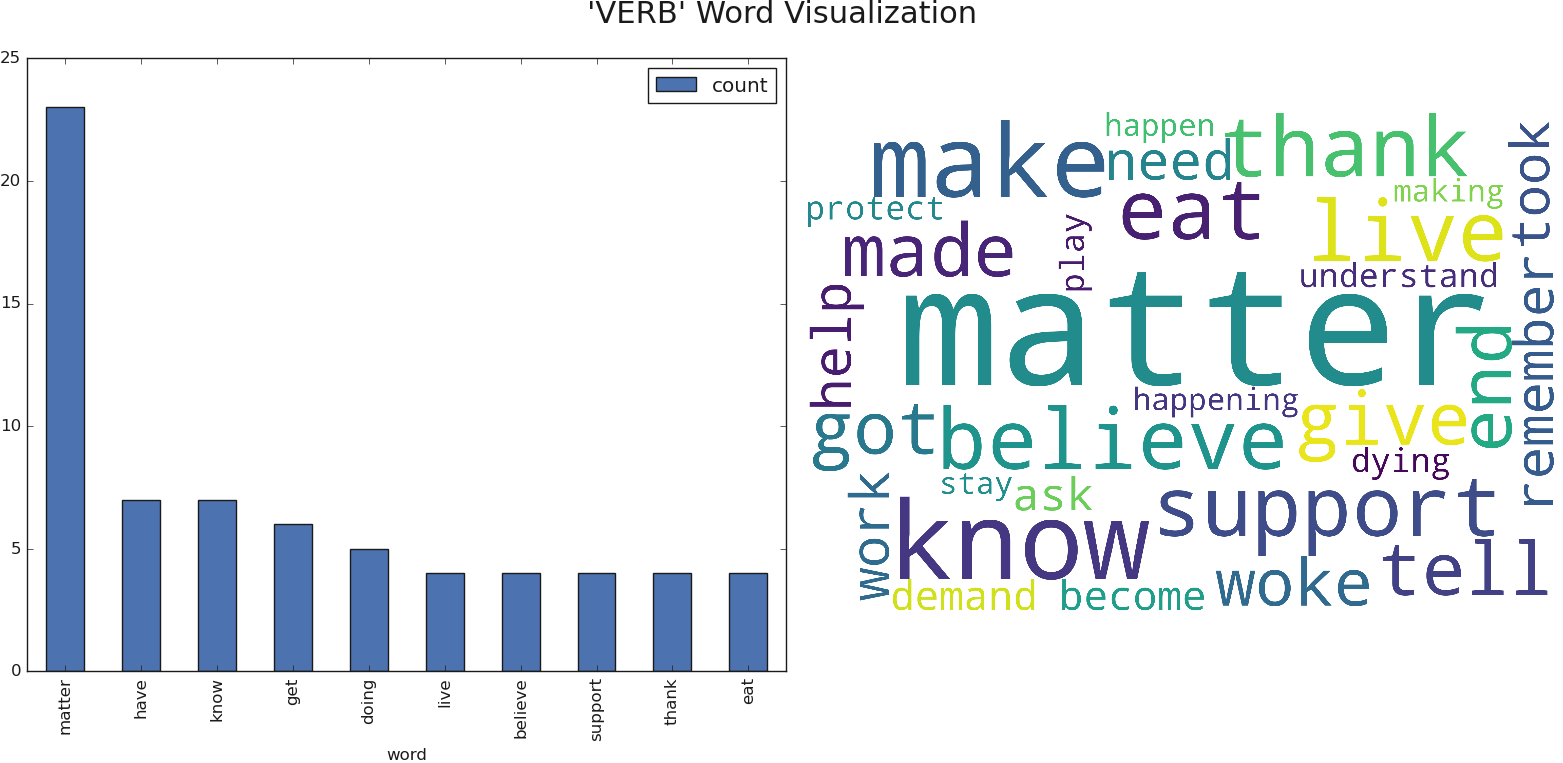
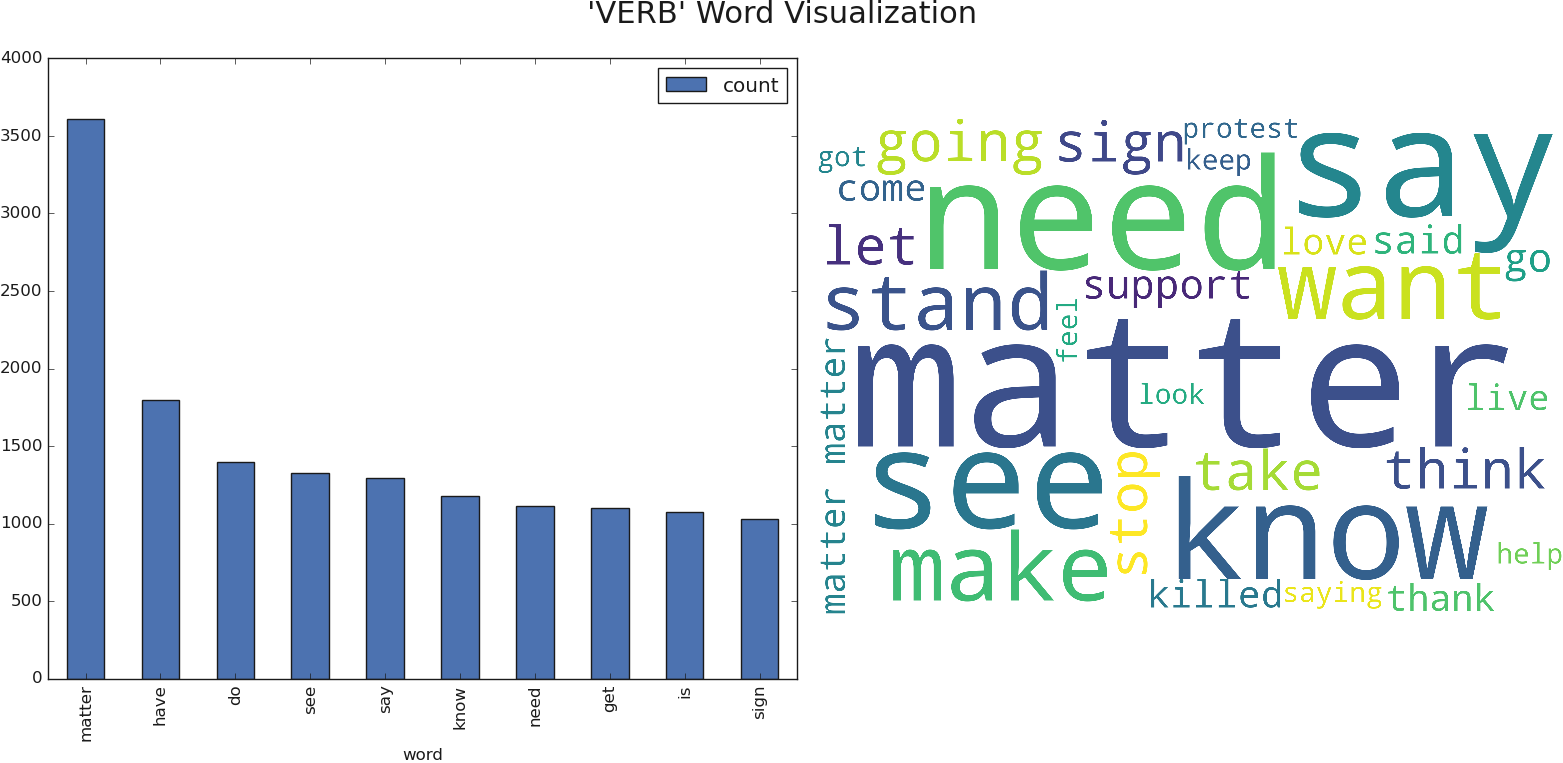
a

diff --git a/dataset/RawTweets/Minnesota/script_2_visualize.py b/dataset/RawTweets/Minnesota/script_2_visualize.py
@@ -21,4 +21,8 @@ df = pd.read_csv("_dataset/final-dataset.csv", sep=",")
 # COUNT BY HOUR
 #LiveTweetViz.plot_line_by_hour(df, date_format, n_start_date, n_end_date, path)
 
-print(df.describe)
+# WORD CLOUD
+LiveTweetViz.generate_word_assessment_by_upos_type(df, "ADJ", path)
+LiveTweetViz.generate_word_assessment_by_upos_type(df, "VERB", path)
+LiveTweetViz.generate_word_assessment_by_upos_type(df, "NOUN", path)
+
